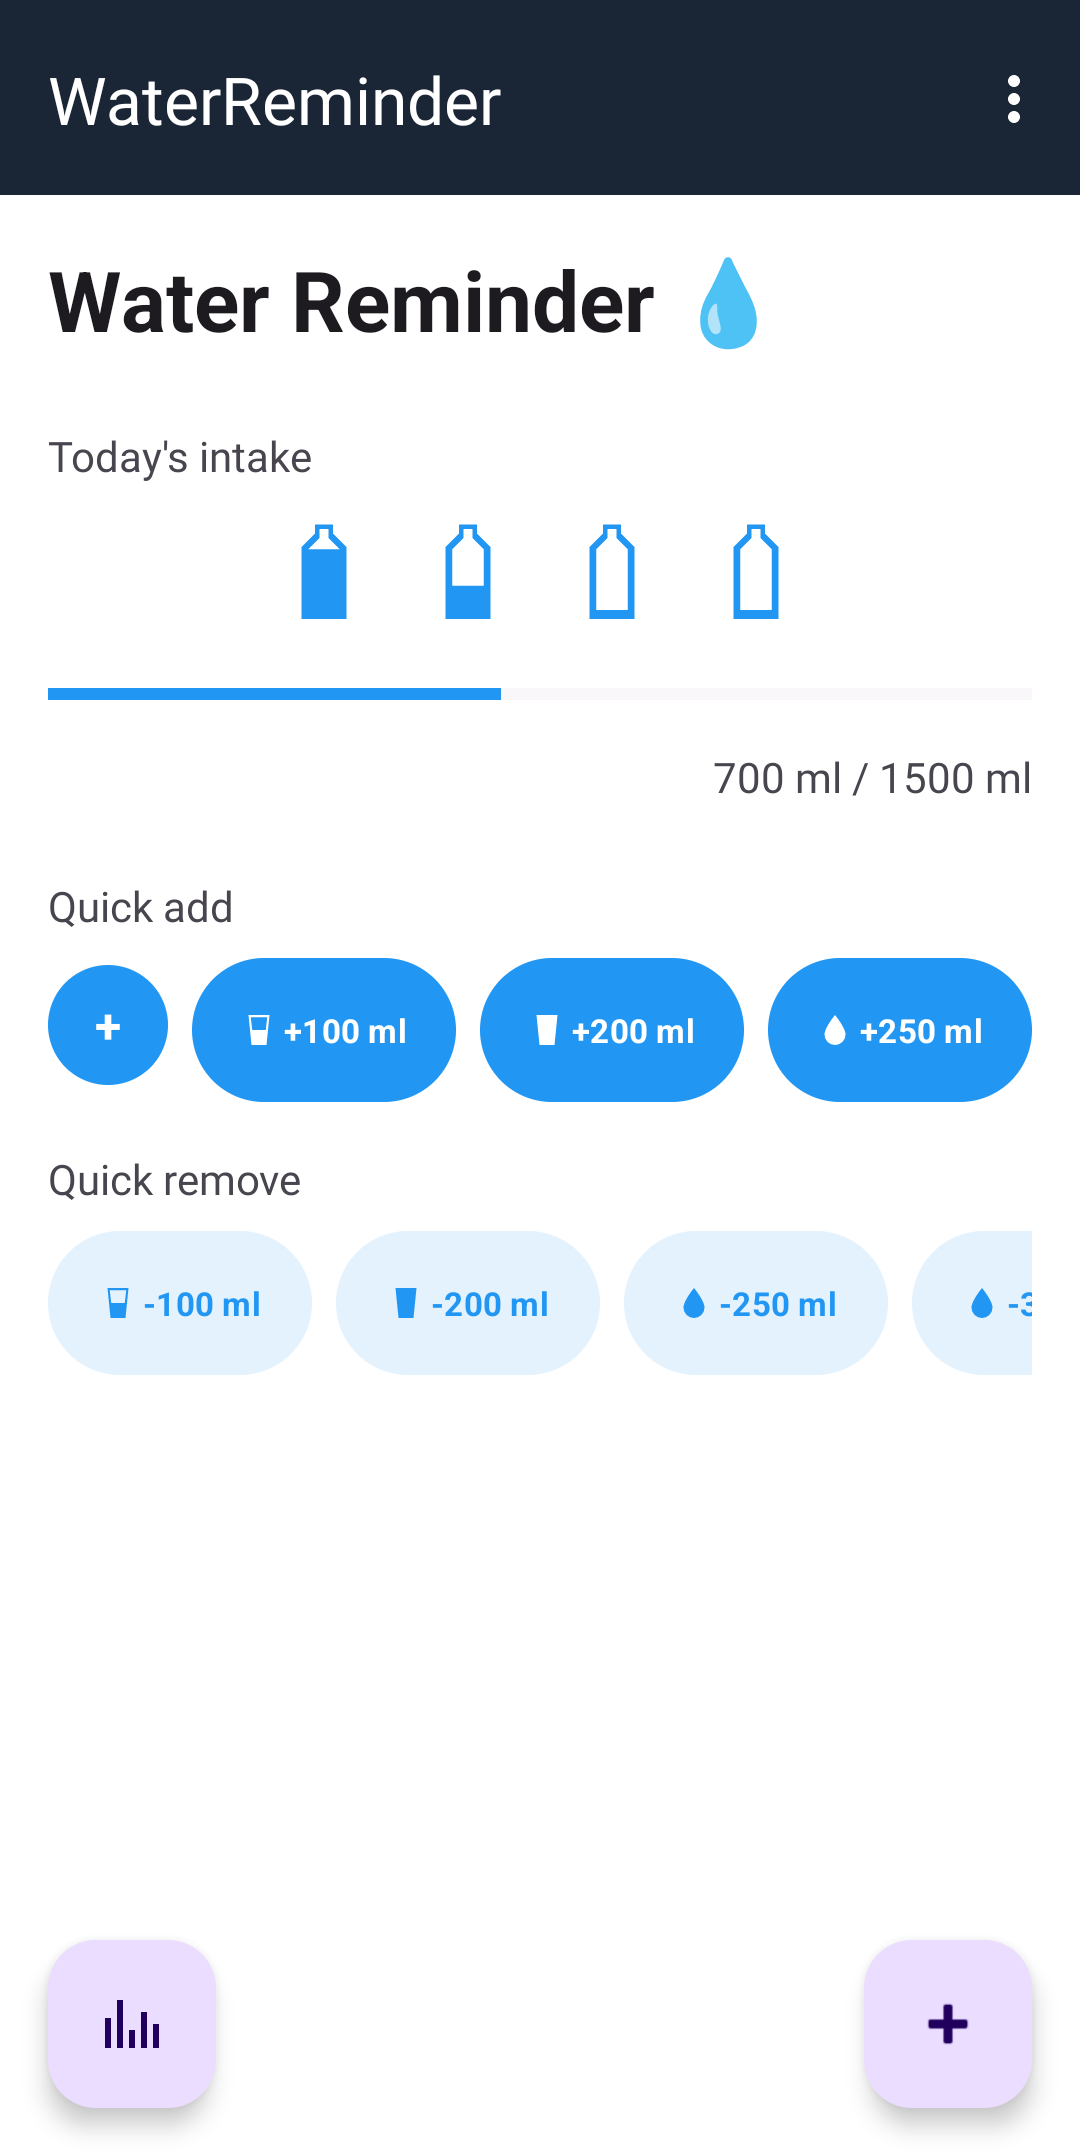
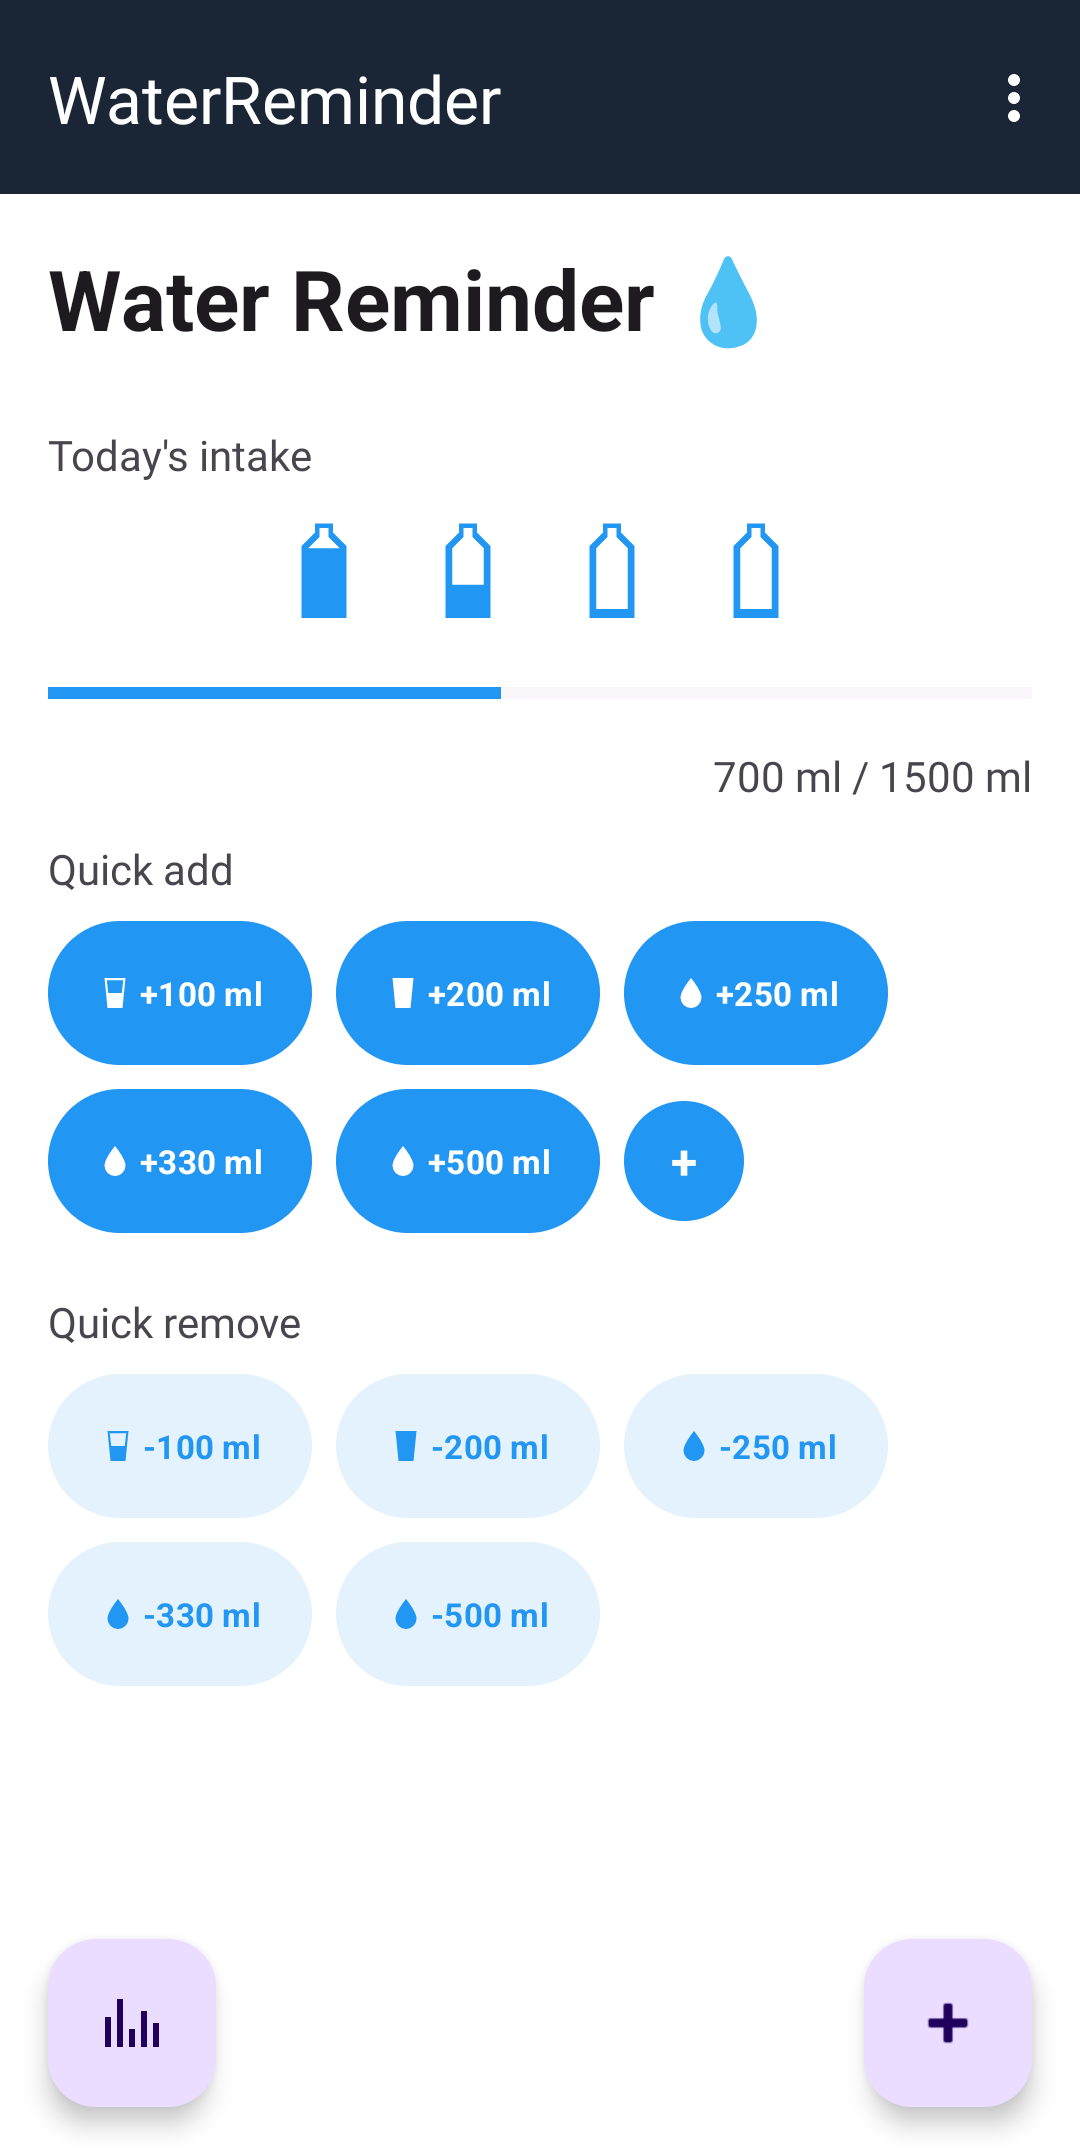
UX: adaptable to screen / re-layout (2) https://codeberg.org/DavidCRicardo/WaterReminder/issues/14

diff --git a/app/src/main/java/com/david/waterreminder/FirstFragment.kt b/app/src/main/java/com/david/waterreminder/FirstFragment.kt
@@ -242,7 +242,7 @@ class FirstFragment : Fragment() {
     private fun addSortedItems(): List<Pair<Int, Boolean>> {
         val fixed = FIXED_ML.map { it to false }
         return when {
-            customQuickMl == 0          -> listOf(0 to true) + fixed
+            customQuickMl == 0          -> fixed + listOf(0 to true)
             customQuickMl !in FIXED_ML  -> (fixed + (customQuickMl to true)).sortedBy { it.first }
             else                        -> fixed + (customQuickMl to true)
         }
